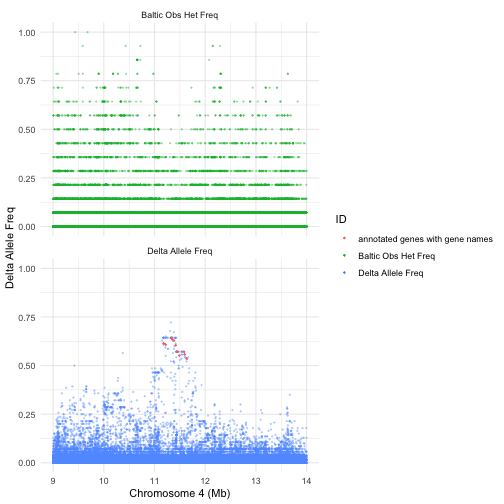
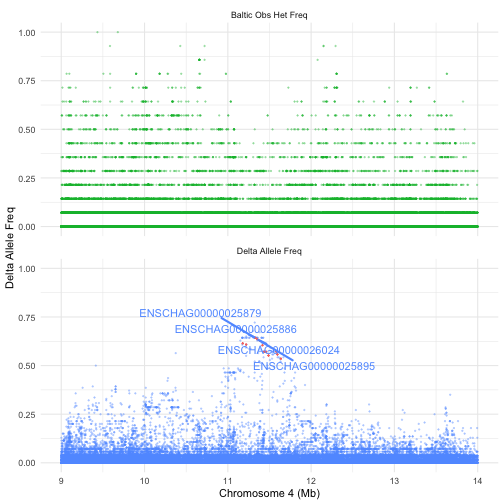
pic of ensembl not working

diff --git a/herring_project_presentation.html b/herring_project_presentation.html
@@ -96,7 +96,9 @@ plink --vcf data/Ch_v2.0.2_79_ind_snpEff_chr4.vcf
 Then read output into R and plot 
 
 ---
+
 # Read the files into R (skip?)
+
 
 ```r
 library(tidyverse)
@@ -116,8 +118,11 @@ areas &lt;- c("Atlantic", "Baltic", "SeaofJapan", "BarentsSea", "WhiteSea", "Pac
 eigenvec &lt;- eigenvec %&gt;% 
 * mutate(Area = str_extract(ID1, paste(areas, collapse = "|")))
 ```
+
 ---
+
 # Calculate variance and create label (double-skip?)
+
 
 ```r
 variance_label &lt;- function(pc, var_vector) {
@@ -131,7 +136,9 @@ variance_label &lt;- function(pc, var_vector) {
   return(label)
 }
 ```
+
 ---
+
 # PCA Plot
 
 
@@ -205,7 +212,9 @@ vcftools --vcf chr4.recode.vcf -keep baltic_samples.txt --recode --out chr4_balt
 vcftools --vcf data/chr4_atlantic.recode.vcf --freq2 --out chr4_atlantic
 vcftools --vcf data/chr4_baltic.recode.vcf --freq2 --out chr4_baltic
 ```
+
 ---
+
 
 # Read Allele frequencies into R (skip?)
 
@@ -231,6 +240,7 @@ baltic_allele_freq &lt;- baltic_raw_allele_freq %&gt;%
   select(POS, FREQ = A2_FREQ) %&gt;% 
   mutate(ID = "Baltic Alt Allele Freq")
 ```
+
 ---
 
 # Calculate delta and window-size (skip windows?)
@@ -282,6 +292,7 @@ combined_allele_freq %&gt;%
 # Heterozygosity (should we just skip het completely? just show/explain missing?)
 
 Use VCFtools to get heterozygosity frequencies
+
 
 ```bash
 vctools --vcf chr4.vcf --keep atlantic_samples.txt --hardy --out ...
@@ -466,7 +477,9 @@ annotate_positions &lt;- function(input_df, annotation_df) {
 I could take the annotations parts maybe? (and more if needed)
 
 ---
+
 # Annotations
+
 Before
 .nowrap.tiny[
 
@@ -507,6 +520,7 @@ annotated_positions %&gt;% print(n = 4)
 ## #   ERRORS / WARNINGS / INFO &lt;chr&gt;
 ```
 ]
+
 ---
 
 # Filter the output
@@ -624,6 +638,13 @@ annotated_gene_names %&gt;%
 ```
 ]
 
+---
+
+# biomaRt
+
+.center.top[
+![ensembl](ensembl.png)]
+
 ???
 
 I could take the annotations parts maybe? (and more if needed)
@@ -635,7 +656,6 @@ I could take the annotations parts maybe? (and more if needed)
 # Summary (change plots?)
 
 ![](herring_project_presentation_files/figure-html/plot-delta-gene-names-1.png)&lt;!-- --&gt;
-
 
 
 
